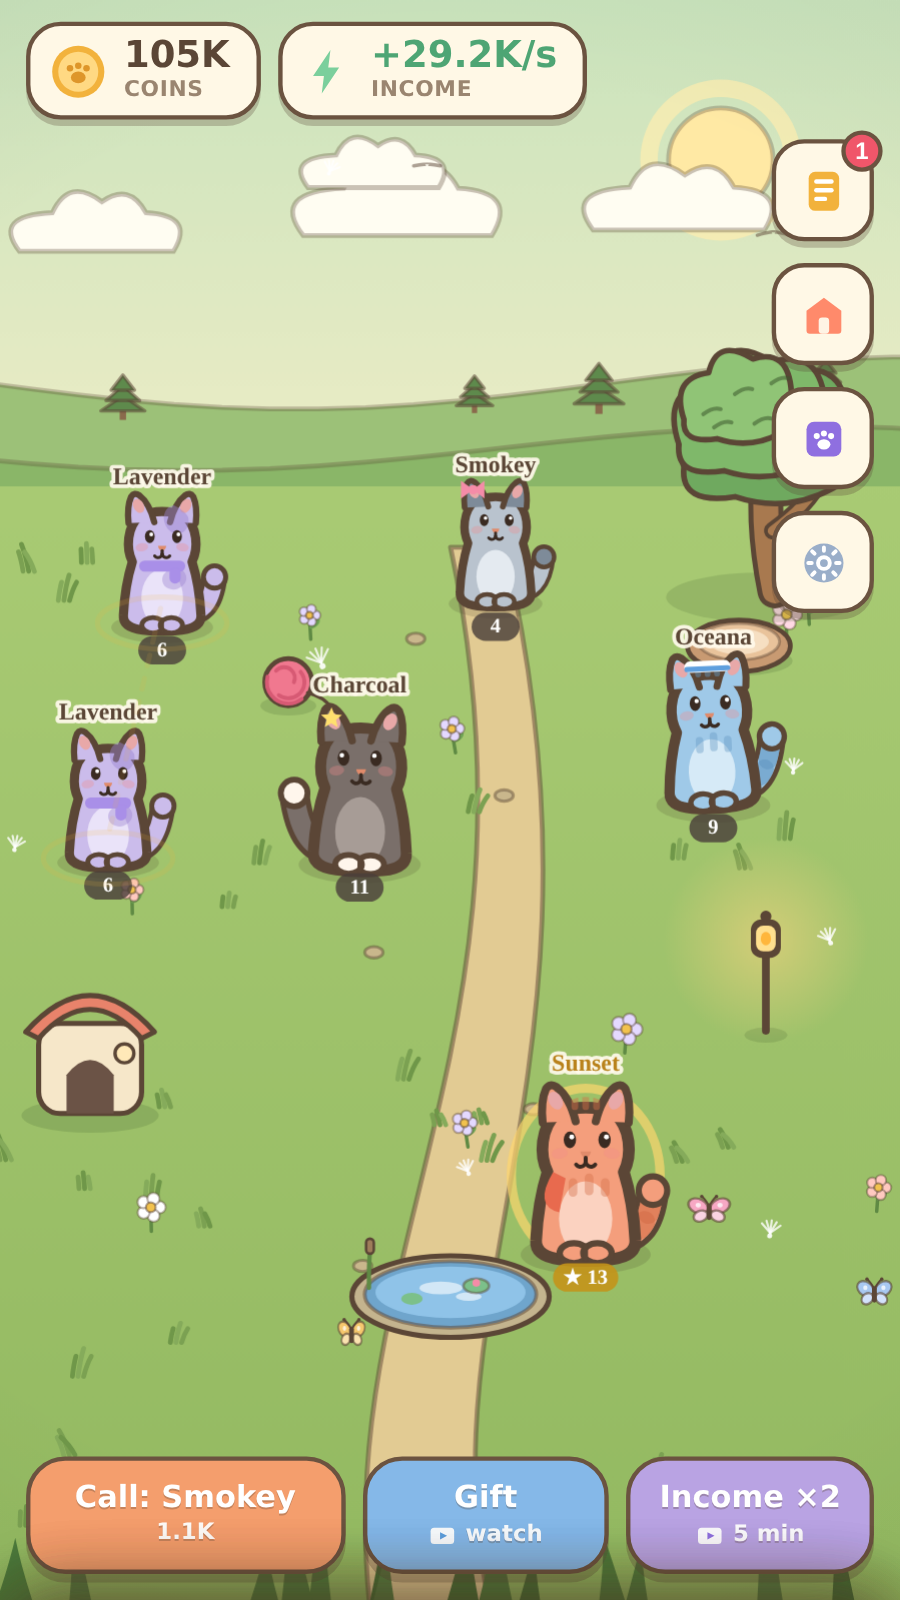
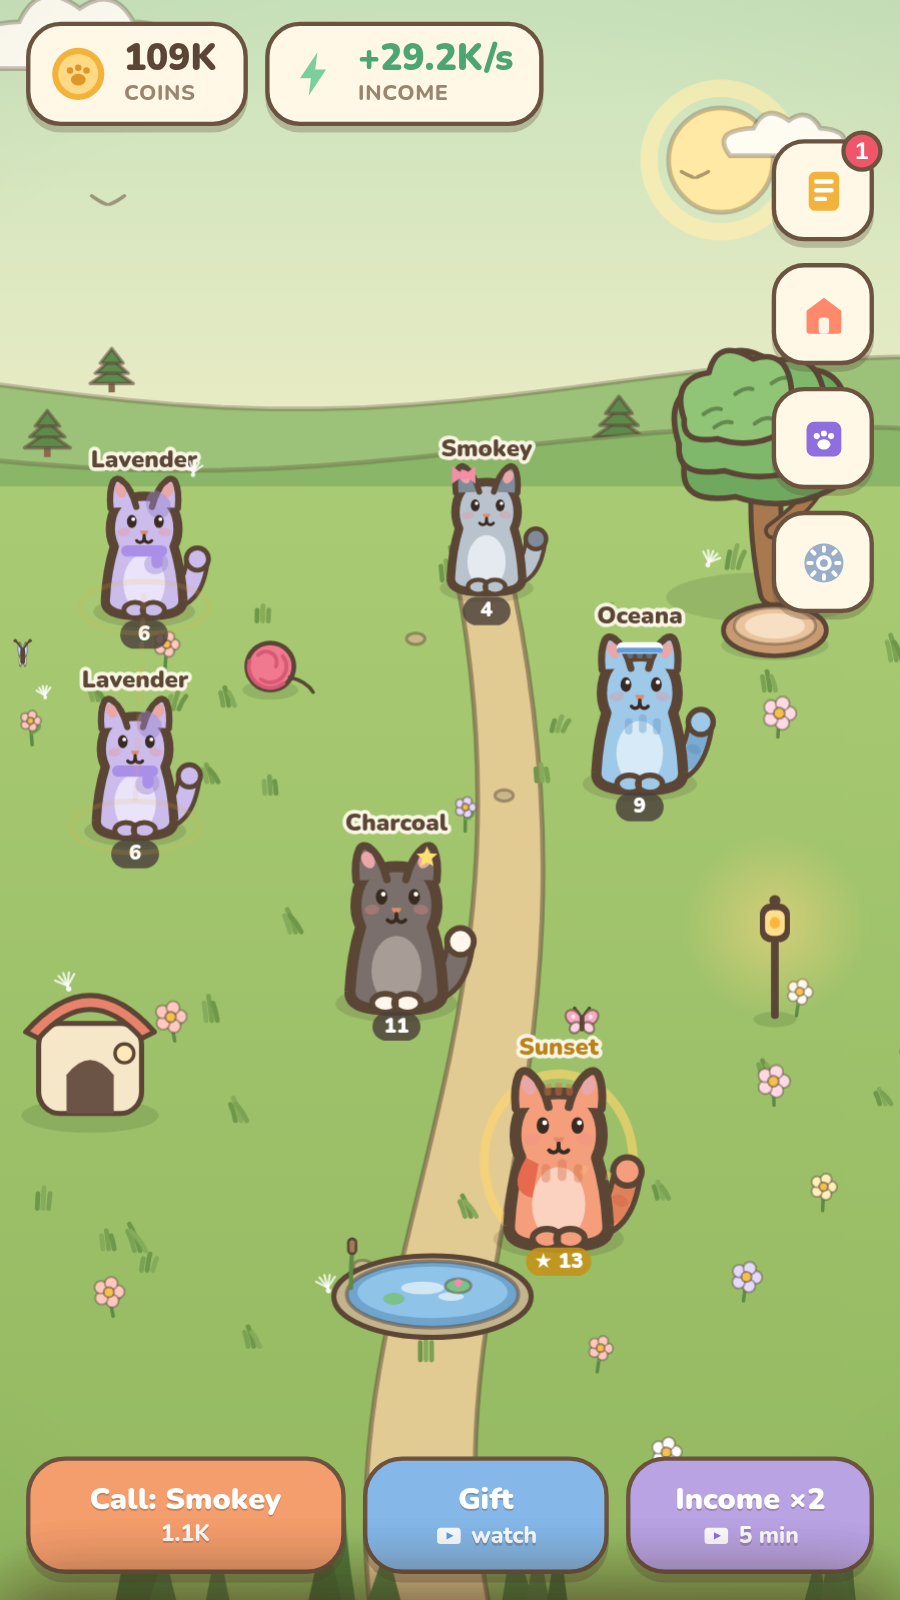
Вернуть Nunito для подписей на canvas (имена котиков и пр.)
Все четыре canvas-шрифта были заданы как "900 Npx Nunito" — без
запасных семейств. Если веб-шрифт не успел/не смог загрузиться,
canvas молча откатывался на serif по умолчанию, и имя породы над
котиком рисовалось «книжным» шрифтом с засечками вместо круглого
гротеска остального интерфейса.

Теперь стек тот же, что и у HUD в CSS ('Nunito',system-ui,…,sans-serif),
вынесен в хелпер FONT(px) и применён во всех четырёх местах:
имя породы, бейдж уровня, всплывающий «+N» и подпись зоны «Отпустить».

Скриншоты пересняты со встроенным Nunito (Google Fonts недоступен из
песочницы), поэтому подписи наконец видны в правильном шрифте; котики
на время съёмки фиксируются, чтобы имена не наезжали друг на друга.

Claude-Session: https://claude.ai/code/session_0119AxHYyw8fGTgDaF1pzinq

diff --git a/index.html b/index.html
@@ -424,6 +424,9 @@ function chime(){tone(660,.07,.25);setTimeout(()=>tone(880,.07,.3),90);setTimeou
 
 /* ---------------- canvas ---------------- */
 const cv=$("cv");let ctx=cv.getContext("2d");
+/* тот же стек шрифтов, что и у HUD: если веб-шрифт не догрузился,
+   canvas обязан откатиться на системный гротеск, а не на serif по умолчанию */
+const FONT=px=>`900 ${px}px 'Nunito',system-ui,-apple-system,'Segoe UI',Roboto,sans-serif`;
 /* десктоп: не выделять поле и не открывать контекстное меню (треб. платформы 1.6.2.7) */
 addEventListener("contextmenu",e=>e.preventDefault());
 document.addEventListener("selectstart",e=>e.preventDefault());
@@ -1046,7 +1049,7 @@ function drawCat(c,t,gCtx,forcePose){
     ctx.save();ctx.translate(c.x,c.y);
     // имя породы над котиком
     const nm=catName(c.lvl);
-    ctx.font="900 11px Nunito";ctx.textAlign="center";ctx.textBaseline="middle";
+    ctx.font=FONT(11);ctx.textAlign="center";ctx.textBaseline="middle";
     const ny=-60*s;
     ctx.lineJoin="round";ctx.lineWidth=3.4;ctx.strokeStyle="rgba(255,250,236,.92)";
     ctx.strokeText(nm,0,ny);
@@ -1055,7 +1058,7 @@ function drawCat(c,t,gCtx,forcePose){
     const bw=c.sh?30:22;
     ctx.fillStyle=c.sh?"rgba(196,148,26,.9)":"rgba(74,63,58,.82)";
     rr(-bw/2,6,bw,13,6.5);ctx.fill();
-    ctx.fillStyle="#fff";ctx.font="900 9.5px Nunito";
+    ctx.fillStyle="#fff";ctx.font=FONT(9.5);
     ctx.fillText((c.sh?"★ ":"")+c.lvl,0,12.8);
     ctx.restore();
     if(c.sh&&Math.random()<0.02)
@@ -1443,7 +1446,7 @@ function drawParts(dt){
   for(const f of floats){
     f.t+=dt;
     ctx.globalAlpha=1-f.t/f.life;
-    ctx.font="900 15px Nunito";ctx.textAlign="center";
+    ctx.font=FONT(15);ctx.textAlign="center";
     ctx.strokeStyle="rgba(255,255,255,.9)";ctx.lineWidth=4;
     ctx.strokeText(f.txt,f.x,f.y-f.t*46);
     ctx.fillStyle=f.col;ctx.fillText(f.txt,f.x,f.y-f.t*46);
@@ -1568,7 +1571,7 @@ function drawReleaseZone(){
   ctx.fillStyle="#8A6A4C";
   ctx.beginPath();ctx.moveTo(z.x+16,z.y+29);ctx.lineTo(z.x+16,z.y+17);
   ctx.quadraticCurveTo(z.x+23,z.y+7,z.x+30,z.y+17);ctx.lineTo(z.x+30,z.y+29);ctx.closePath();ctx.fill();
-  ctx.fillStyle=INK;ctx.font="900 12.5px Nunito";ctx.textAlign="left";ctx.textBaseline="middle";
+  ctx.fillStyle=INK;ctx.font=FONT(12.5);ctx.textAlign="left";ctx.textBaseline="middle";
   ctx.fillText(T("releaseLabel"),z.x+40,z.y+z.h/2+1);
   ctx.restore();
 }
